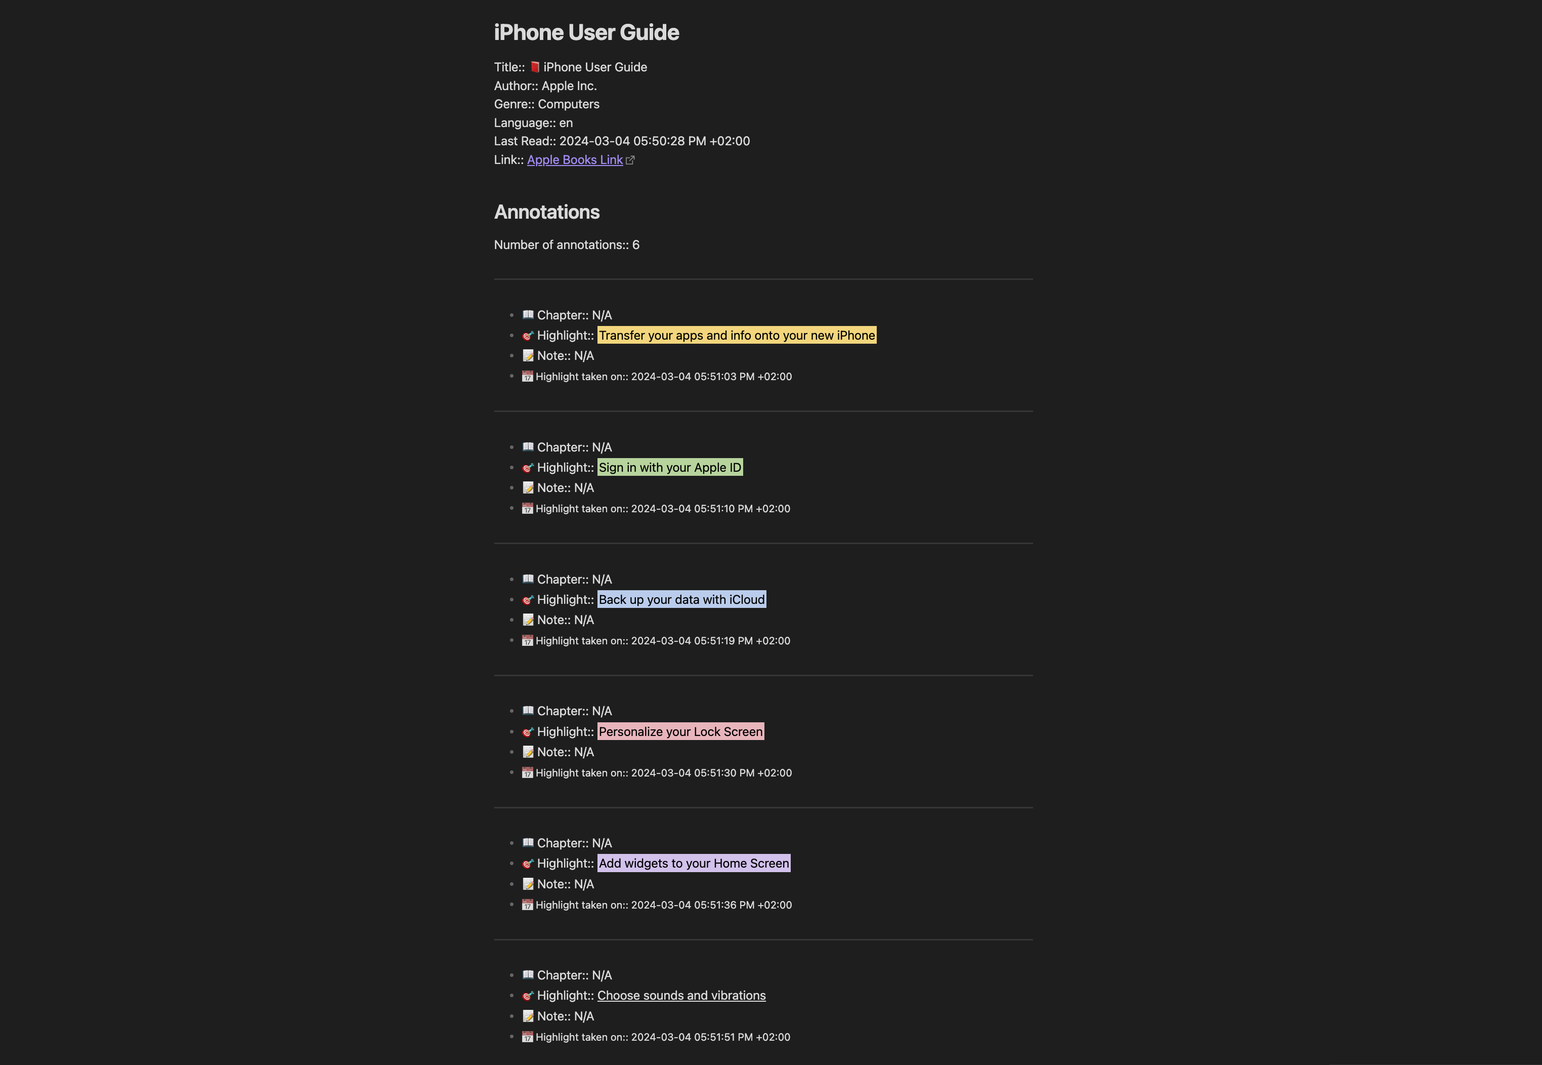
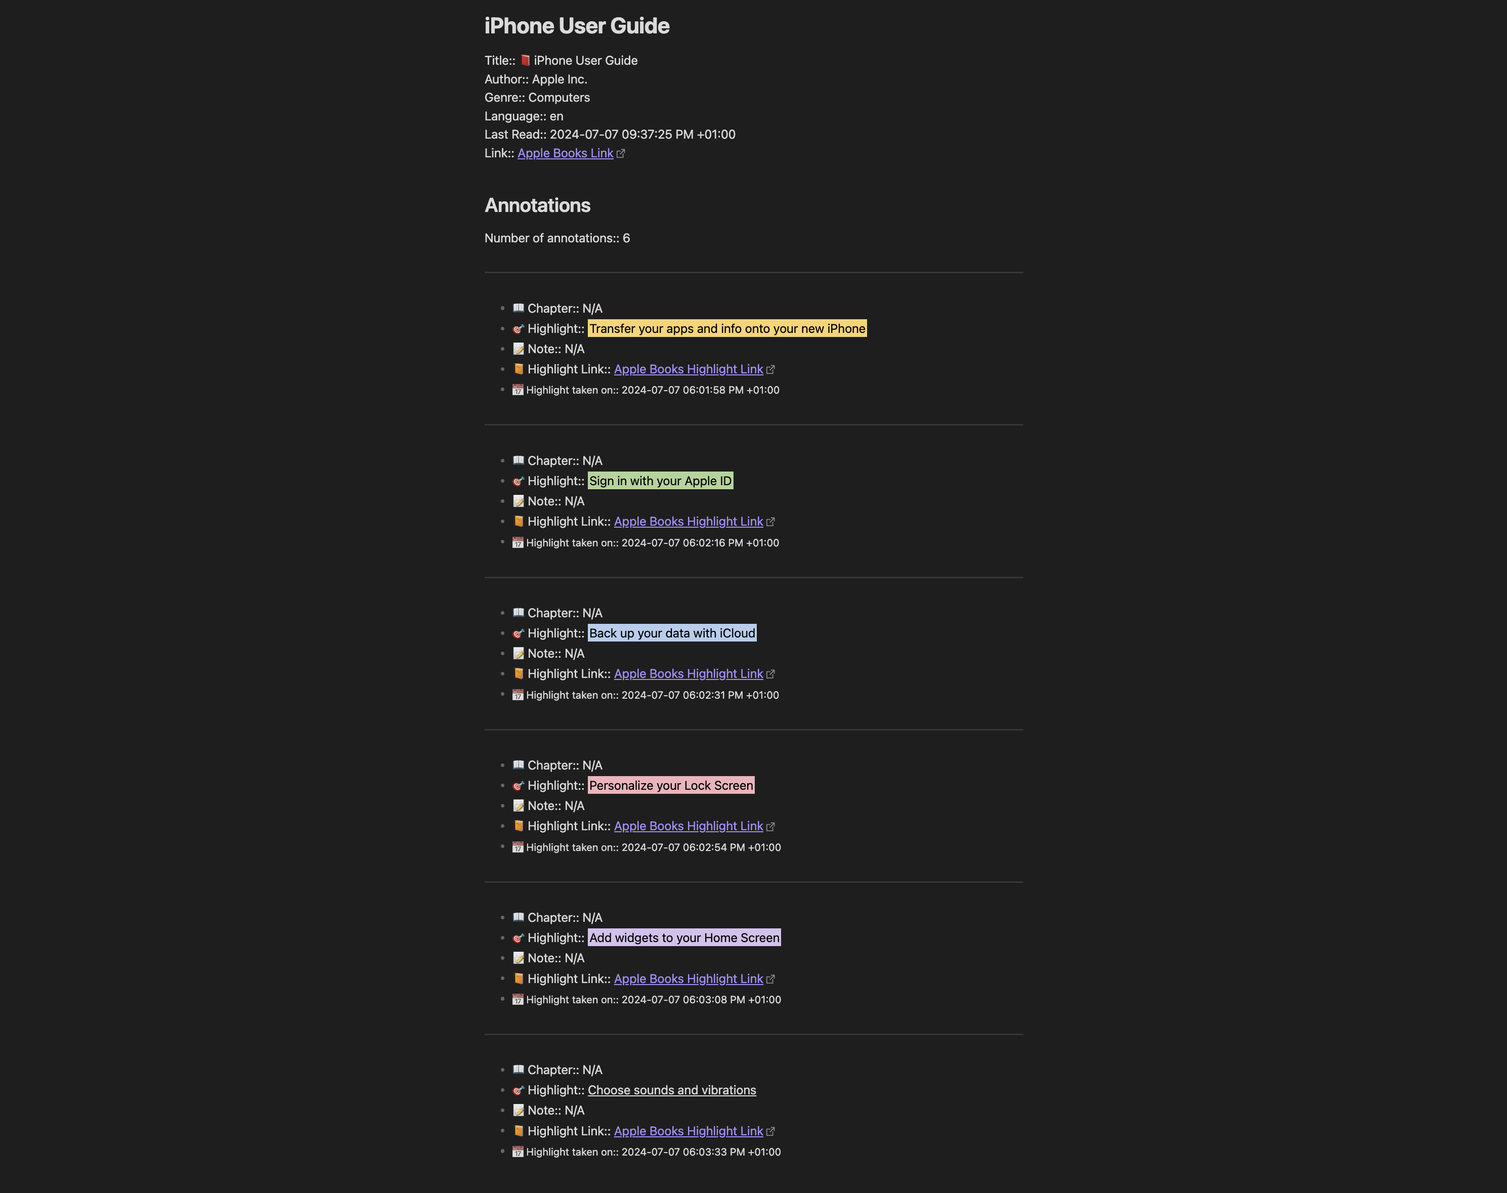
Feature: Add Apple Books highlight links
* test(db): update migrations to enable new database tests

* test: add basic highlight links tests for db

* test: update mock tests, plugin docs and info

* refactor(core): update default template to include highlight location

* refactor(core): update types, constants, schemas, seedData and methods

* fix: template for colored highlights. register handlebars custom helpers. Minor grammar fixes

* docs(README): update preview and template-colors screenshots to show highlight links feature

* docs(README): add highlight location template variable

* docs(README): update template with highlight link

* linter: update tsconfig to remove unnecessary type checks

Changed region(s): [[0.3122, 0.0, 0.5932, 0.865], [0.3122, 0.8959, 0.5307, 0.9886]]

diff --git a/src/db/seedData.ts b/src/db/seedData.ts
@@ -35,9 +35,10 @@ export const defaultBooks = [{
 export const defaultAnnotations = [{
 	"ZANNOTATIONASSETID": "THBFYNJKTGFTTVCGSAE1",
 	"ZFUTUREPROOFING5": "Introduction",
-	"ZANNOTATIONREPRESENTATIVETEXT": "This is a contextual text for the hightlight from the iPhone User Guide",
-	"ZANNOTATIONSELECTEDTEXT": "hightlight from the iPhone User Guide",
-	"ZANNOTATIONNOTE": "Test note for the hightlight from the iPhone User Guide",
+	"ZANNOTATIONREPRESENTATIVETEXT": "This is a contextual text for the highlight from the iPhone User Guide",
+	"ZANNOTATIONSELECTEDTEXT": "highlight from the iPhone User Guide",
+	"ZANNOTATIONLOCATION": "test-highlight-link-from-the-iphone-user-guide",
+	"ZANNOTATIONNOTE": "Test note for the highlight from the iPhone User Guide",
 	"ZANNOTATIONCREATIONDATE": 685151385.91602,
 	"ZANNOTATIONMODIFICATIONDATE": 685151385.91602,
 	"ZANNOTATIONSTYLE": 3,
@@ -45,9 +46,10 @@ export const defaultAnnotations = [{
 }, {
 	"ZANNOTATIONASSETID": "THBFYNJKTGFTTVCGSAE2",
 	"ZFUTUREPROOFING5": "Introduction",
-	"ZANNOTATIONREPRESENTATIVETEXT": "This is a contextual text for the hightlight from the iPad User Guide",
-	"ZANNOTATIONSELECTEDTEXT": "hightlight from the iPad User Guide",
-	"ZANNOTATIONNOTE": "Test note for the hightlight from the iPad User Guide",
+	"ZANNOTATIONREPRESENTATIVETEXT": "This is a contextual text for the highlight from the iPad User Guide",
+	"ZANNOTATIONSELECTEDTEXT": "highlight from the iPad User Guide",
+	"ZANNOTATIONLOCATION": "test-highlight-link-from-the-ipad-user-guide",
+	"ZANNOTATIONNOTE": "Test note for the highlight from the iPad User Guide",
 	"ZANNOTATIONCREATIONDATE": 685151385.91602,
 	"ZANNOTATIONMODIFICATIONDATE": 685151385.91602,
 	"ZANNOTATIONSTYLE": 3,
@@ -55,9 +57,10 @@ export const defaultAnnotations = [{
 }, {
 	"ZANNOTATIONASSETID": "THBFYNJKTGFTTVCGSAE3",
 	"ZFUTUREPROOFING5": "Introduction",
-	"ZANNOTATIONREPRESENTATIVETEXT": "This is a contextual text for the hightlight from the Mac User Guide",
-	"ZANNOTATIONSELECTEDTEXT": "hightlight from the Mac User Guide",
-	"ZANNOTATIONNOTE": "Test note for the hightlight from the Mac User Guide",
+	"ZANNOTATIONREPRESENTATIVETEXT": "This is a contextual text for the highlight from the Mac User Guide",
+	"ZANNOTATIONSELECTEDTEXT": "highlight from the Mac User Guide",
+	"ZANNOTATIONLOCATION": "test-highlight-link-from-the-mac-user-guide",
+	"ZANNOTATIONNOTE": "Test note for the highlight from the Mac User Guide",
 	"ZANNOTATIONCREATIONDATE": 685151385.91602,
 	"ZANNOTATIONMODIFICATIONDATE": 685151385.91602,
 	"ZANNOTATIONSTYLE": 3,
@@ -65,9 +68,10 @@ export const defaultAnnotations = [{
 }, {
 	"ZANNOTATIONASSETID": "THBFYNJKTGFTTVCGSAE4",
 	"ZFUTUREPROOFING5": "Introduction",
-	"ZANNOTATIONREPRESENTATIVETEXT": "This is a contextual text for the hightlight from the Apple Watch User Guide",
-	"ZANNOTATIONSELECTEDTEXT": "hightlight from the Apple Watch User Guide",
-	"ZANNOTATIONNOTE": "Test note for the hightlight from the Apple Watch User Guide",
+	"ZANNOTATIONREPRESENTATIVETEXT": "This is a contextual text for the highlight from the Apple Watch User Guide",
+	"ZANNOTATIONSELECTEDTEXT": "highlight from the Apple Watch User Guide",
+	"ZANNOTATIONLOCATION": "test-highlight-link-from-the-apple-watch-user-guide",
+	"ZANNOTATIONNOTE": "Test note for the highlight from the Apple Watch User Guide",
 	"ZANNOTATIONCREATIONDATE": 685151385.91602,
 	"ZANNOTATIONMODIFICATIONDATE": 685151385.91602,
 	"ZANNOTATIONSTYLE": 3,
@@ -75,9 +79,10 @@ export const defaultAnnotations = [{
 }, {
 	"ZANNOTATIONASSETID": "THBFYNJKTGFTTVCGSAE1",
 	"ZFUTUREPROOFING5": "Introduction",
-	"ZANNOTATIONREPRESENTATIVETEXT": "This is a contextual text for the hightlight from the iPhone User Guide",
-	"ZANNOTATIONSELECTEDTEXT": "hightlight from the iPhone User Guide",
-	"ZANNOTATIONNOTE": "Test note for the deleted hightlight from the iPhone User Guide",
+	"ZANNOTATIONREPRESENTATIVETEXT": "This is a contextual text for the highlight from the iPhone User Guide",
+	"ZANNOTATIONSELECTEDTEXT": "highlight from the iPhone User Guide",
+	"ZANNOTATIONLOCATION": "test-highlight-link-from-the-iphone-user-guide",
+	"ZANNOTATIONNOTE": "Test note for the deleted highlight from the iPhone User Guide",
 	"ZANNOTATIONCREATIONDATE": 685151385.91602,
 	"ZANNOTATIONMODIFICATIONDATE": 685151385.91602,
 	"ZANNOTATIONSTYLE": 3,
@@ -85,9 +90,10 @@ export const defaultAnnotations = [{
 }, {
 	"ZANNOTATIONASSETID": "THBFYNJKTGFTTVCGSAE2",
 	"ZFUTUREPROOFING5": "Introduction",
-	"ZANNOTATIONREPRESENTATIVETEXT": "This is a contextual text for the hightlight from the iPad User Guide",
-	"ZANNOTATIONSELECTEDTEXT": "hightlight from the iPad User Guide",
-	"ZANNOTATIONNOTE": "Test note for the deleted hightlight from the iPad User Guide",
+	"ZANNOTATIONREPRESENTATIVETEXT": "This is a contextual text for the highlight from the iPad User Guide",
+	"ZANNOTATIONSELECTEDTEXT": "highlight from the iPad User Guide",
+	"ZANNOTATIONLOCATION": "test-highlight-link-from-the-ipad-user-guide",
+	"ZANNOTATIONNOTE": "Test note for the deleted highlight from the iPad User Guide",
 	"ZANNOTATIONCREATIONDATE": 685151385.91602,
 	"ZANNOTATIONMODIFICATIONDATE": 685151385.91602,
 	"ZANNOTATIONSTYLE": 3,
@@ -95,9 +101,10 @@ export const defaultAnnotations = [{
 }, {
 	"ZANNOTATIONASSETID": "THBFYNJKTGFTTVCGSAE3",
 	"ZFUTUREPROOFING5": "Introduction",
-	"ZANNOTATIONREPRESENTATIVETEXT": "This is a contextual text for the hightlight from the Mac User Guide",
-	"ZANNOTATIONSELECTEDTEXT": "hightlight from the Mac User Guide",
-	"ZANNOTATIONNOTE": "Test note for the deleted hightlight from the Mac User Guide",
+	"ZANNOTATIONREPRESENTATIVETEXT": "This is a contextual text for the highlight from the Mac User Guide",
+	"ZANNOTATIONSELECTEDTEXT": "highlight from the Mac User Guide",
+	"ZANNOTATIONLOCATION": "test-highlight-link-from-the-mac-user-guide",
+	"ZANNOTATIONNOTE": "Test note for the deleted highlight from the Mac User Guide",
 	"ZANNOTATIONCREATIONDATE": 685151385.91602,
 	"ZANNOTATIONMODIFICATIONDATE": 685151385.91602,
 	"ZANNOTATIONSTYLE": 3,
@@ -105,9 +112,10 @@ export const defaultAnnotations = [{
 }, {
 	"ZANNOTATIONASSETID": "THBFYNJKTGFTTVCGSAE4",
 	"ZFUTUREPROOFING5": "Introduction",
-	"ZANNOTATIONREPRESENTATIVETEXT": "This is a contextual text for the hightlight from the Apple Watch User Guide",
-	"ZANNOTATIONSELECTEDTEXT": "hightlight from the Apple Watch User Guide",
-	"ZANNOTATIONNOTE": "Test note for the deleted hightlight from the Apple Watch User Guide",
+	"ZANNOTATIONREPRESENTATIVETEXT": "This is a contextual text for the highlight from the Apple Watch User Guide",
+	"ZANNOTATIONSELECTEDTEXT": "highlight from the Apple Watch User Guide",
+	"ZANNOTATIONLOCATION": "test-highlight-link-from-the-apple-watch-user-guide",
+	"ZANNOTATIONNOTE": "Test note for the deleted highlight from the Apple Watch User Guide",
 	"ZANNOTATIONCREATIONDATE": 685151385.91602,
 	"ZANNOTATIONMODIFICATIONDATE": 685151385.91602,
 	"ZANNOTATIONSTYLE": 3,

diff --git a/test/mocks/aggregatedDetailsData.ts b/test/mocks/aggregatedDetailsData.ts
@@ -11,9 +11,10 @@ export const booksToAggregate = [{
 export const annotationsToAggregate = [{
 	"ZANNOTATIONASSETID": "THBFYNJKTGFTTVCGSAE5",
 	"ZFUTUREPROOFING5": "Aggregated Introduction",
-	"ZANNOTATIONREPRESENTATIVETEXT": "This is a contextual text for the aggregated hightlight from the Apple iPhone User Guide",
-	"ZANNOTATIONSELECTEDTEXT": "aggregated hightlight from the Apple iPhone User Guide",
-	"ZANNOTATIONNOTE": "Test note for the aggregated hightlight from the Apple iPhone User Guide",
+	"ZANNOTATIONREPRESENTATIVETEXT": "This is a contextual text for the aggregated highlight from the Apple iPhone User Guide",
+	"ZANNOTATIONSELECTEDTEXT": "aggregated highlight from the Apple iPhone User Guide",
+	"ZANNOTATIONLOCATION": "aggregated-highlight-link-from-the-apple-iphone-user-guide",
+	"ZANNOTATIONNOTE": "Test note for the aggregated highlight from the Apple iPhone User Guide",
 	"ZANNOTATIONCREATIONDATE": 731876693.002279,
 	"ZANNOTATIONMODIFICATIONDATE": 731876693.002279,
 	"ZANNOTATIONSTYLE": 3,
@@ -21,9 +22,10 @@ export const annotationsToAggregate = [{
 }, {
 	"ZANNOTATIONASSETID": "THBFYNJKTGFTTVCGSAE5",
 	"ZFUTUREPROOFING5": "Another aggregated Introduction",
-	"ZANNOTATIONREPRESENTATIVETEXT": "This is a contextual text for the aggregated hightlight from the Apple iPhone User Guide\n\ncontaining a new line to test the preservation of indentation",
-	"ZANNOTATIONSELECTEDTEXT": "aggregated hightlight from the Apple iPhone User Guide\n\ncontaining a new line to test the preservation of indentation",
-	"ZANNOTATIONNOTE": "Test note for the aggregated hightlight from the Apple iPhone User Guide\n\nalong with a new line to test the preservation of indentation",
+	"ZANNOTATIONREPRESENTATIVETEXT": "This is a contextual text for the aggregated highlight from the Apple iPhone User Guide\n\ncontaining a new line to test the preservation of indentation",
+	"ZANNOTATIONSELECTEDTEXT": "aggregated highlight from the Apple iPhone User Guide\n\ncontaining a new line to test the preservation of indentation",
+	"ZANNOTATIONLOCATION": "aggregated-highlight-link-from-the-apple-iphone-user-guide",
+	"ZANNOTATIONNOTE": "Test note for the aggregated highlight from the Apple iPhone User Guide\n\nalong with a new line to test the preservation of indentation",
 	"ZANNOTATIONCREATIONDATE": 731876693.002279,
 	"ZANNOTATIONMODIFICATIONDATE": 731876693.002279,
 	"ZANNOTATIONSTYLE": 3,
@@ -40,17 +42,19 @@ export const aggregatedHighlights = [{
 	"bookCoverUrl": '',
 	"annotations": [{
 		"chapter": "Aggregated Introduction",
-		"contextualText": "This is a contextual text for the aggregated hightlight from the Apple iPhone User Guide",
-		"highlight": "aggregated hightlight from the Apple iPhone User Guide",
-		"note": "Test note for the aggregated hightlight from the Apple iPhone User Guide",
+		"contextualText": "This is a contextual text for the aggregated highlight from the Apple iPhone User Guide",
+		"highlight": "aggregated highlight from the Apple iPhone User Guide",
+		"note": "Test note for the aggregated highlight from the Apple iPhone User Guide",
+		"highlightLocation": "aggregated-highlight-link-from-the-apple-iphone-user-guide",
 		"highlightStyle": 3,
 		"highlightCreationDate": 731876693.002279,
 		"highlightModificationDate": 731876693.002279
 	}, {
 		"chapter": "Another aggregated Introduction",
-		"contextualText": "This is a contextual text for the aggregated hightlight from the Apple iPhone User Guide\ncontaining a new line to test the preservation of indentation",
-		"highlight": "aggregated hightlight from the Apple iPhone User Guide\ncontaining a new line to test the preservation of indentation",
-		"note": "Test note for the aggregated hightlight from the Apple iPhone User Guide\nalong with a new line to test the preservation of indentation",
+		"contextualText": "This is a contextual text for the aggregated highlight from the Apple iPhone User Guide\ncontaining a new line to test the preservation of indentation",
+		"highlight": "aggregated highlight from the Apple iPhone User Guide\ncontaining a new line to test the preservation of indentation",
+		"note": "Test note for the aggregated highlight from the Apple iPhone User Guide\nalong with a new line to test the preservation of indentation",
+		"highlightLocation": "aggregated-highlight-link-from-the-apple-iphone-user-guide",
 		"highlightStyle": 3,
 		"highlightCreationDate": 731876693.002279,
 		"highlightModificationDate": 731876693.002279

diff --git a/test/mocks/renderedTemplate.ts b/test/mocks/renderedTemplate.ts
@@ -9,19 +9,21 @@ Number of annotations:: 2
 ----
 
 - 📖 Chapter:: Aggregated Introduction
-- 🔖 Context:: This is a contextual text for the aggregated hightlight from the Apple iPhone User Guide
-- 🎯 Highlight:: aggregated hightlight from the Apple iPhone User Guide
-- 📝 Note:: Test note for the aggregated hightlight from the Apple iPhone User Guide
+- 🔖 Context:: This is a contextual text for the aggregated highlight from the Apple iPhone User Guide
+- 🎯 Highlight:: aggregated highlight from the Apple iPhone User Guide
+- 📝 Note:: Test note for the aggregated highlight from the Apple iPhone User Guide
+- 📙 Highlight Link:: [Apple Books Highlight Link](ibooks://assetid/THBFYNJKTGFTTVCGSAE5#aggregated-highlight-link-from-the-apple-iphone-user-guide)
 
 ----
 
 - 📖 Chapter:: Another aggregated Introduction
-- 🔖 Context:: This is a contextual text for the aggregated hightlight from the Apple iPhone User Guide
+- 🔖 Context:: This is a contextual text for the aggregated highlight from the Apple iPhone User Guide
 containing a new line to test the preservation of indentation
-- 🎯 Highlight:: aggregated hightlight from the Apple iPhone User Guide
+- 🎯 Highlight:: aggregated highlight from the Apple iPhone User Guide
 containing a new line to test the preservation of indentation
-- 📝 Note:: Test note for the aggregated hightlight from the Apple iPhone User Guide
+- 📝 Note:: Test note for the aggregated highlight from the Apple iPhone User Guide
 along with a new line to test the preservation of indentation
+- 📙 Highlight Link:: [Apple Books Highlight Link](ibooks://assetid/THBFYNJKTGFTTVCGSAE5#aggregated-highlight-link-from-the-apple-iphone-user-guide)
 
 `;
 
@@ -41,21 +43,23 @@ Number of annotations:: 2
 ----
 
 - 📖 Chapter:: Aggregated Introduction
-- 🔖 Context:: This is a contextual text for the aggregated hightlight from the Apple iPhone User Guide
-- 🎯 Highlight:: <mark style="background:rgb(249,213,108); color:#000; padding:2px;">aggregated hightlight from the Apple iPhone User Guide</mark>
-- 📝 Note:: Test note for the aggregated hightlight from the Apple iPhone User Guide
+- 🔖 Context:: This is a contextual text for the aggregated highlight from the Apple iPhone User Guide
+- 🎯 Highlight:: <mark style="background:rgb(249,213,108); color:#000; padding:2px;">aggregated highlight from the Apple iPhone User Guide</mark>
+- 📝 Note:: Test note for the aggregated highlight from the Apple iPhone User Guide
+- 📙 Highlight Link:: [Apple Books Highlight Link](ibooks://assetid/THBFYNJKTGFTTVCGSAE5#aggregated-highlight-link-from-the-apple-iphone-user-guide)
 - <small>📅 Highlight taken on:: 2024-03-11 03:04:53 PM -04:00</small>
 - <small>📅 Highlight modified on:: 2024-03-11 03:04:53 PM -04:00</small>
 
 ----
 
 - 📖 Chapter:: Another aggregated Introduction
-- 🔖 Context:: This is a contextual text for the aggregated hightlight from the Apple iPhone User Guide
+- 🔖 Context:: This is a contextual text for the aggregated highlight from the Apple iPhone User Guide
 containing a new line to test the preservation of indentation
-- 🎯 Highlight:: <mark style="background:rgb(249,213,108); color:#000; padding:2px;">aggregated hightlight from the Apple iPhone User Guide
+- 🎯 Highlight:: <mark style="background:rgb(249,213,108); color:#000; padding:2px;">aggregated highlight from the Apple iPhone User Guide
 containing a new line to test the preservation of indentation</mark>
-- 📝 Note:: Test note for the aggregated hightlight from the Apple iPhone User Guide
+- 📝 Note:: Test note for the aggregated highlight from the Apple iPhone User Guide
 along with a new line to test the preservation of indentation
+- 📙 Highlight Link:: [Apple Books Highlight Link](ibooks://assetid/THBFYNJKTGFTTVCGSAE5#aggregated-highlight-link-from-the-apple-iphone-user-guide)
 - <small>📅 Highlight taken on:: 2024-03-11 03:04:53 PM -04:00</small>
 - <small>📅 Highlight modified on:: 2024-03-11 03:04:53 PM -04:00</small>
 

diff --git a/test/db.spec.ts b/test/db.spec.ts
@@ -60,8 +60,21 @@ describe('Database operations', () => {
 		const highlights = await annotationsRequest(dbPath, `SELECT * FROM ${HIGHLIGHTS_LIBRARY_NAME} WHERE ZANNOTATIONDELETED = 0`);
 
 		expect(highlights.length).toEqual(4);
-		expect(highlights[0].ZANNOTATIONNOTE).toEqual('Test note for the hightlight from the iPhone User Guide');
-		expect(highlights[3].ZANNOTATIONREPRESENTATIVETEXT).toEqual('This is a contextual text for the hightlight from the Apple Watch User Guide');
+		expect(highlights[0].ZANNOTATIONNOTE).toEqual('Test note for the highlight from the iPhone User Guide');
+		expect(highlights[3].ZANNOTATIONREPRESENTATIVETEXT).toEqual('This is a contextual text for the highlight from the Apple Watch User Guide');
+	});
+
+	test('Should return a highlight link for each highlight when highlights library is not empty', async () => {
+		await seedDatabase(annotations, defaultAnnotations);
+
+		const dbPath = path.join(process.cwd(), TEST_DATABASE_PATH);
+		const highlights = await annotationsRequest(dbPath, `SELECT * FROM ${HIGHLIGHTS_LIBRARY_NAME} WHERE ZANNOTATIONDELETED = 0`);
+
+		expect(highlights.length).toEqual(4);
+		expect(highlights[0].ZANNOTATIONLOCATION).toEqual('test-highlight-link-from-the-iphone-user-guide');
+		expect(highlights[1].ZANNOTATIONLOCATION).toEqual('test-highlight-link-from-the-ipad-user-guide');
+		expect(highlights[2].ZANNOTATIONLOCATION).toEqual('test-highlight-link-from-the-mac-user-guide');
+		expect(highlights[3].ZANNOTATIONLOCATION).toEqual('test-highlight-link-from-the-apple-watch-user-guide');
 	});
 });
 
@@ -87,9 +100,10 @@ describe('Database load testing', () => {
 				threeThousandsAnnotations.push({
 					ZANNOTATIONASSETID: `THBFYNJKTGFTTVCGSAE${i}`,
 					ZFUTUREPROOFING5: `Introduction ${j}`,
-					ZANNOTATIONREPRESENTATIVETEXT: `This is a contextual text for the hightlight from the Book ${i}`,
-					ZANNOTATIONSELECTEDTEXT: `hightlight from the Book ${i}`,
-					ZANNOTATIONNOTE: `Test note for the hightlight from the Book ${i}`,
+					ZANNOTATIONREPRESENTATIVETEXT: `This is a contextual text for the highlight from the Book ${i}`,
+					ZANNOTATIONSELECTEDTEXT: `highlight from the Book ${i}`,
+					ZANNOTATIONLOCATION: `test-highlight-link-from-the-book-${i}`,
+					ZANNOTATIONNOTE: `Test note for the highlight from the Book ${i}`,
 					ZANNOTATIONCREATIONDATE: 685151385.91602,
 					ZANNOTATIONMODIFICATIONDATE: 685151385.91602,
 					ZANNOTATIONSTYLE: 3,
@@ -109,6 +123,9 @@ describe('Database load testing', () => {
 
 		expect(dbBooks.length).toEqual(1000);
 		expect(dbAnnotations.length).toEqual(3000);
+
+		const dbAnnotationLocations = dbAnnotations.filter(({ZANNOTATIONLOCATION}) => ZANNOTATIONLOCATION !== null && ZANNOTATIONLOCATION !== undefined);
+		expect(dbAnnotationLocations.length).toEqual(3000);
 
 		expect(endTime - startTime).toBeLessThan(500);
 	});

diff --git a/test/mocks/rawTemplates.ts b/test/mocks/rawTemplates.ts
@@ -24,6 +24,7 @@ Number of annotations:: {{annotations.length}}
 {{else if (eq highlightStyle "5")}}- 🎯 Highlight:: <mark style="background:rgb(214,192,238); color:#000; padding:2px;">{{{highlight}}}</mark>
 {{/if}}
 - 📝 Note:: {{#if note}}{{{note}}}{{else}}N/A{{/if}}
+- 📙 Highlight Link:: {{#if highlightLocation}}[Apple Books Highlight Link](ibooks://assetid/{{../bookId}}#{{highlightLocation}}){{else}}N/A{{/if}}
 - <small>📅 Highlight taken on:: {{dateFormat highlightCreationDate "YYYY-MM-DD hh:mm:ss A Z"}}</small>
 - <small>📅 Highlight modified on:: {{dateFormat highlightModificationDate "YYYY-MM-DD hh:mm:ss A Z"}}</small>
 

diff --git a/src/methods/aggregateDetails.ts b/src/methods/aggregateDetails.ts
@@ -33,6 +33,7 @@ export const aggregateBookAndHighlightDetails = async (): Promise<ICombinedBooks
 						contextualText: textForContext ? preserveNewlineIndentation(textForContext) : textForContext,
 						highlight: preserveNewlineIndentation(annotation.ZANNOTATIONSELECTEDTEXT),
 						note: userNote ? preserveNewlineIndentation(userNote) : userNote,
+						highlightLocation: annotation.ZANNOTATIONLOCATION,
 						highlightStyle: annotation.ZANNOTATIONSTYLE,
 						highlightCreationDate: annotation.ZANNOTATIONCREATIONDATE,
 						highlightModificationDate: annotation.ZANNOTATIONMODIFICATIONDATE

diff --git a/src/types.ts b/src/types.ts
@@ -13,6 +13,7 @@ export interface IBookAnnotation {
     ZFUTUREPROOFING5: string;
     ZANNOTATIONREPRESENTATIVETEXT: string;
     ZANNOTATIONSELECTEDTEXT: string;
+    ZANNOTATIONLOCATION: string;
     ZANNOTATIONNOTE: string;
     ZANNOTATIONCREATIONDATE: number;
     ZANNOTATIONMODIFICATIONDATE: number;
@@ -23,6 +24,7 @@ export interface IHighlight {
     chapter: string;
     contextualText: string;
     highlight: string;
+    highlightLocation: string;
     note: string;
 }
 export interface ICombinedBooksAndHighlights {

diff --git a/src/settings.ts b/src/settings.ts
@@ -43,7 +43,7 @@ export class IBookHighlightsSettingTab extends PluginSettingTab {
 
         new Setting(containerEl)
             .setName('Import highlights on start')
-            .setDesc('Import all hightlights from all your books when Obsidian starts')
+            .setDesc('Import all highlights from all your books when Obsidian starts')
             .addToggle((toggle) => {
                 toggle.setValue(this.plugin.settings.importOnStart)
                     .onChange(async (value) => {

diff --git a/src/db/schemas.ts b/src/db/schemas.ts
@@ -17,6 +17,7 @@ export const annotations = sqliteTable(HIGHLIGHTS_LIBRARY_NAME, {
 	ZFUTUREPROOFING5: text('ZFUTUREPROOFING5'),
 	ZANNOTATIONREPRESENTATIVETEXT: text('ZANNOTATIONREPRESENTATIVETEXT'),
 	ZANNOTATIONSELECTEDTEXT: text('ZANNOTATIONSELECTEDTEXT').notNull(),
+	ZANNOTATIONLOCATION: text('ZANNOTATIONLOCATION'),
 	ZANNOTATIONNOTE: text('ZANNOTATIONNOTE'),
 	ZANNOTATIONCREATIONDATE: integer('ZANNOTATIONCREATIONDATE'),
 	ZANNOTATIONMODIFICATIONDATE: integer('ZANNOTATIONMODIFICATIONDATE'),

diff --git a/test/pluginDocs.spec.ts b/test/pluginDocs.spec.ts
@@ -23,6 +23,7 @@ describe('Plugin documentation', () => {
 		expect(readme).toContain('{{{contextualText}}}');
 		expect(readme).toContain('{{{highlight}}}');
 		expect(readme).toContain('{{{note}}}');
+		expect(readme).toContain('{{{highlightLocation}}}');
 		expect(readme).toContain('{{highlightStyle}}');
 		expect(readme).toContain('{{highlightCreationDate}}');
 		expect(readme).toContain('{{highlightModificationDate}}');

diff --git a/src/template.ts b/src/template.ts
@@ -13,6 +13,7 @@ Number of annotations:: {{annotations.length}}
 - 🔖 Context:: {{#if contextualText}}{{{contextualText}}}{{else}}N/A{{/if}}
 - 🎯 Highlight:: {{{highlight}}}
 - 📝 Note:: {{#if note}}{{{note}}}{{else}}N/A{{/if}}
+- 📙 Highlight Link:: {{#if highlightLocation}}[Apple Books Highlight Link](ibooks://assetid/{{../bookId}}#{{highlightLocation}}){{else}}N/A{{/if}}
 
 {{/each}}
 `;

diff --git a/src/methods/renderHighlightsTemplate.ts b/src/methods/renderHighlightsTemplate.ts
@@ -1,5 +1,6 @@
 import * as Handlebars from 'handlebars';
 import { ICombinedBooksAndHighlights } from '../types';
+import 'src/utils/helpers'
 export const renderHighlightsTemplate = async (highlight: ICombinedBooksAndHighlights, template: string) => {
 	const compiledTemplate = Handlebars.compile(template);
 	const renderedTemplate = compiledTemplate(highlight);
